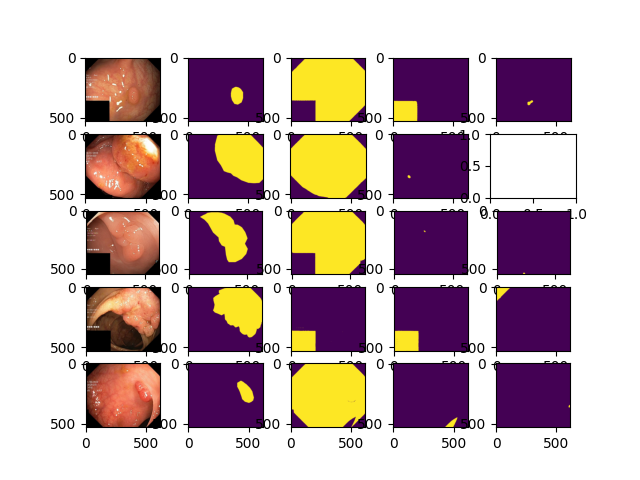
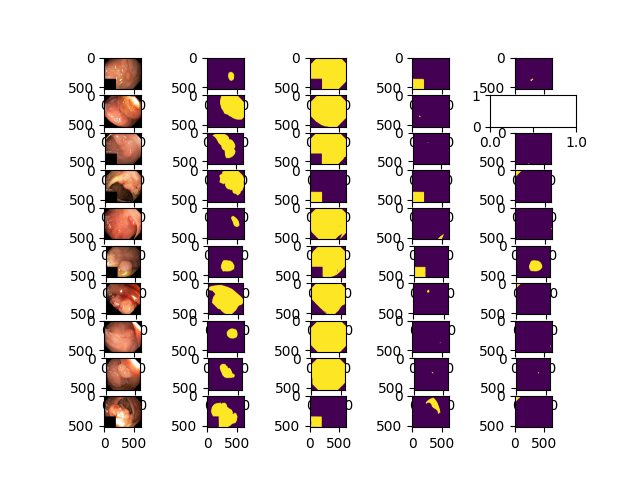
pretty printing

diff --git a/fine_tune/eval_single.py b/fine_tune/eval_single.py
@@ -51,8 +51,10 @@ def _generate_masks():
 
     mask_generator = SAM2AutomaticMaskGenerator(build_sam2(model_cfg, checkpoint))
 
-    sample_idxs = [0,1,2,3,4]
+    sample_idxs = range(10)
+    plt.axis("off")
     fig, axs = plt.subplots(len(sample_idxs),2+3)
+
     for i in sample_idxs:
         image = np.array(train_set[i]["image"].convert("RGB"))
         mask_gt = train_set[i]["annotation"]
